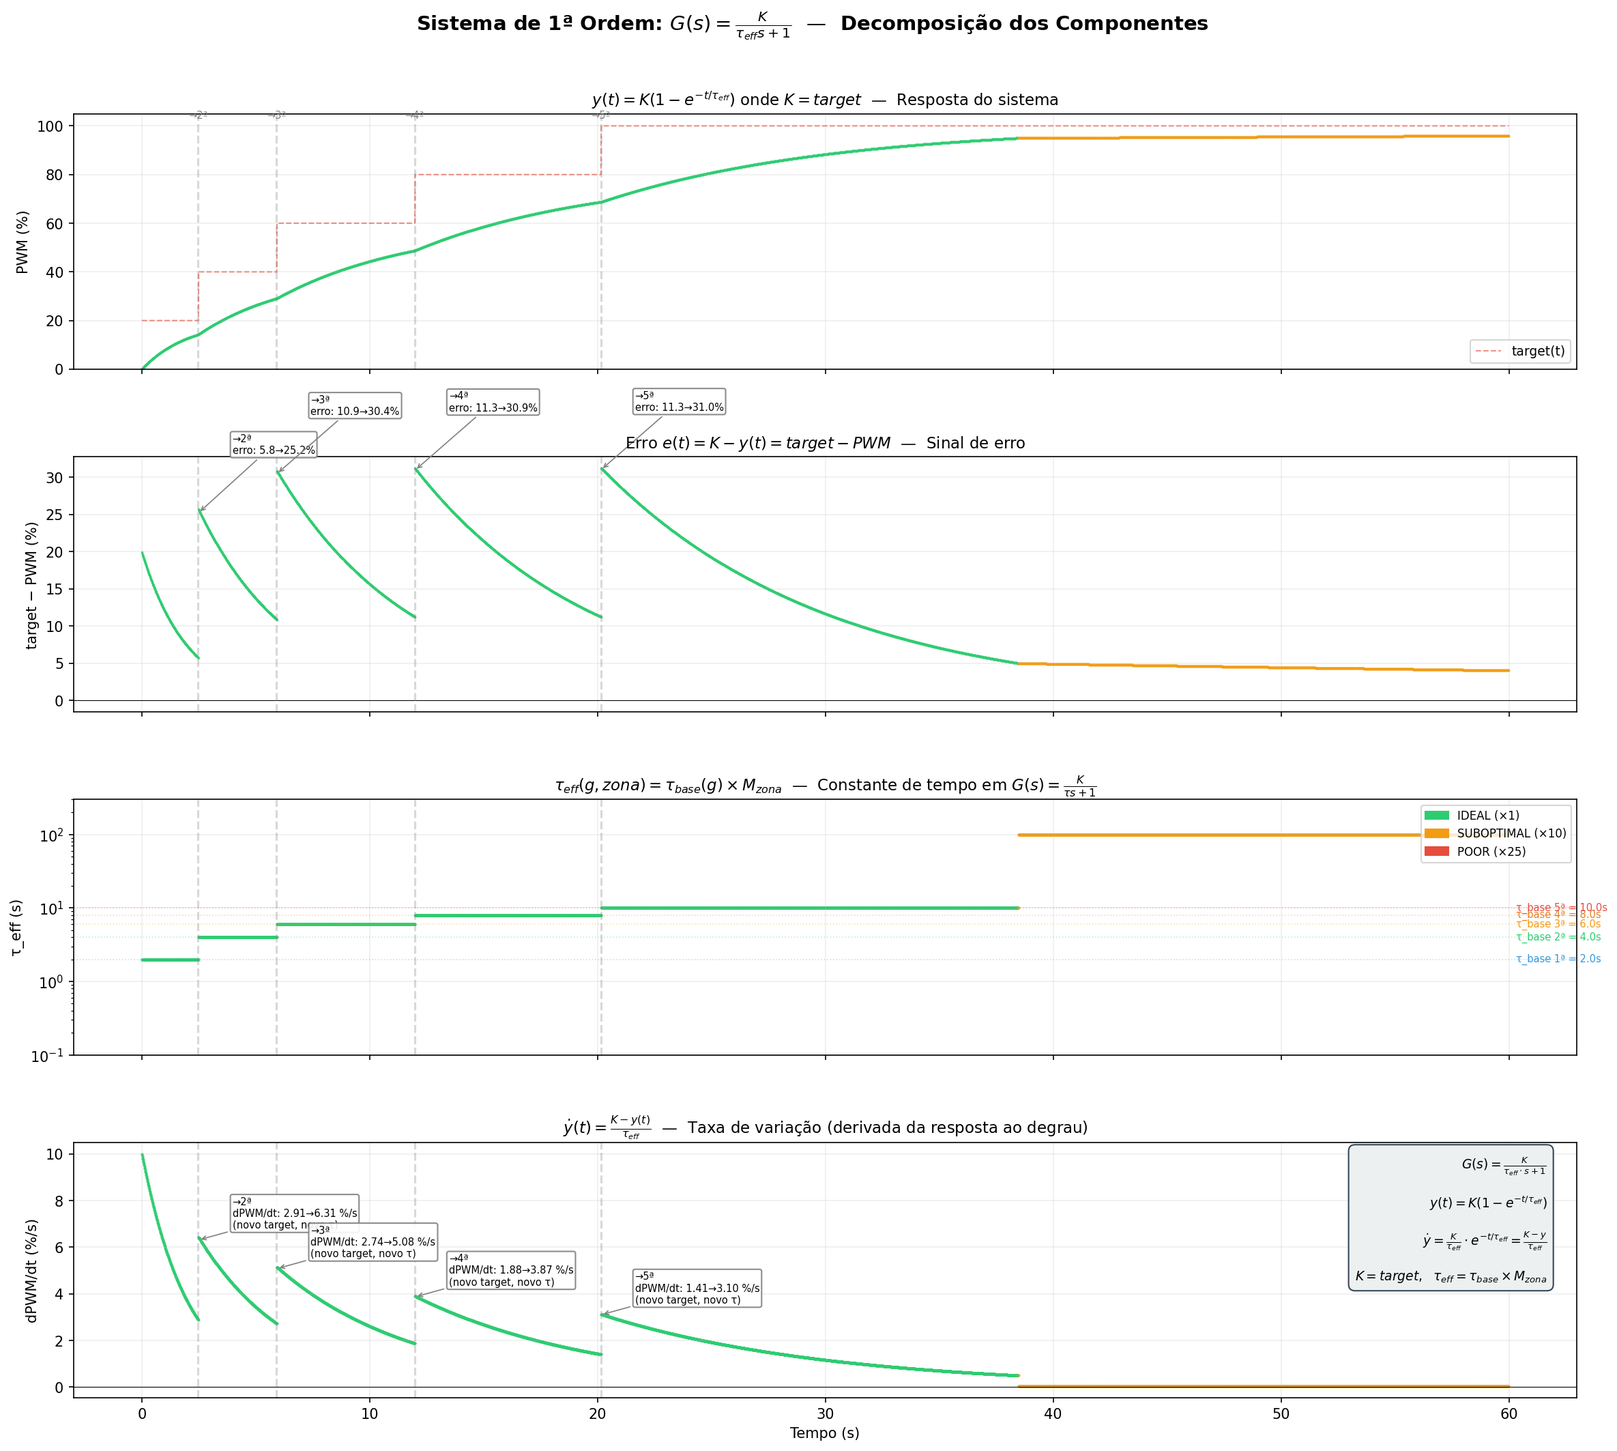
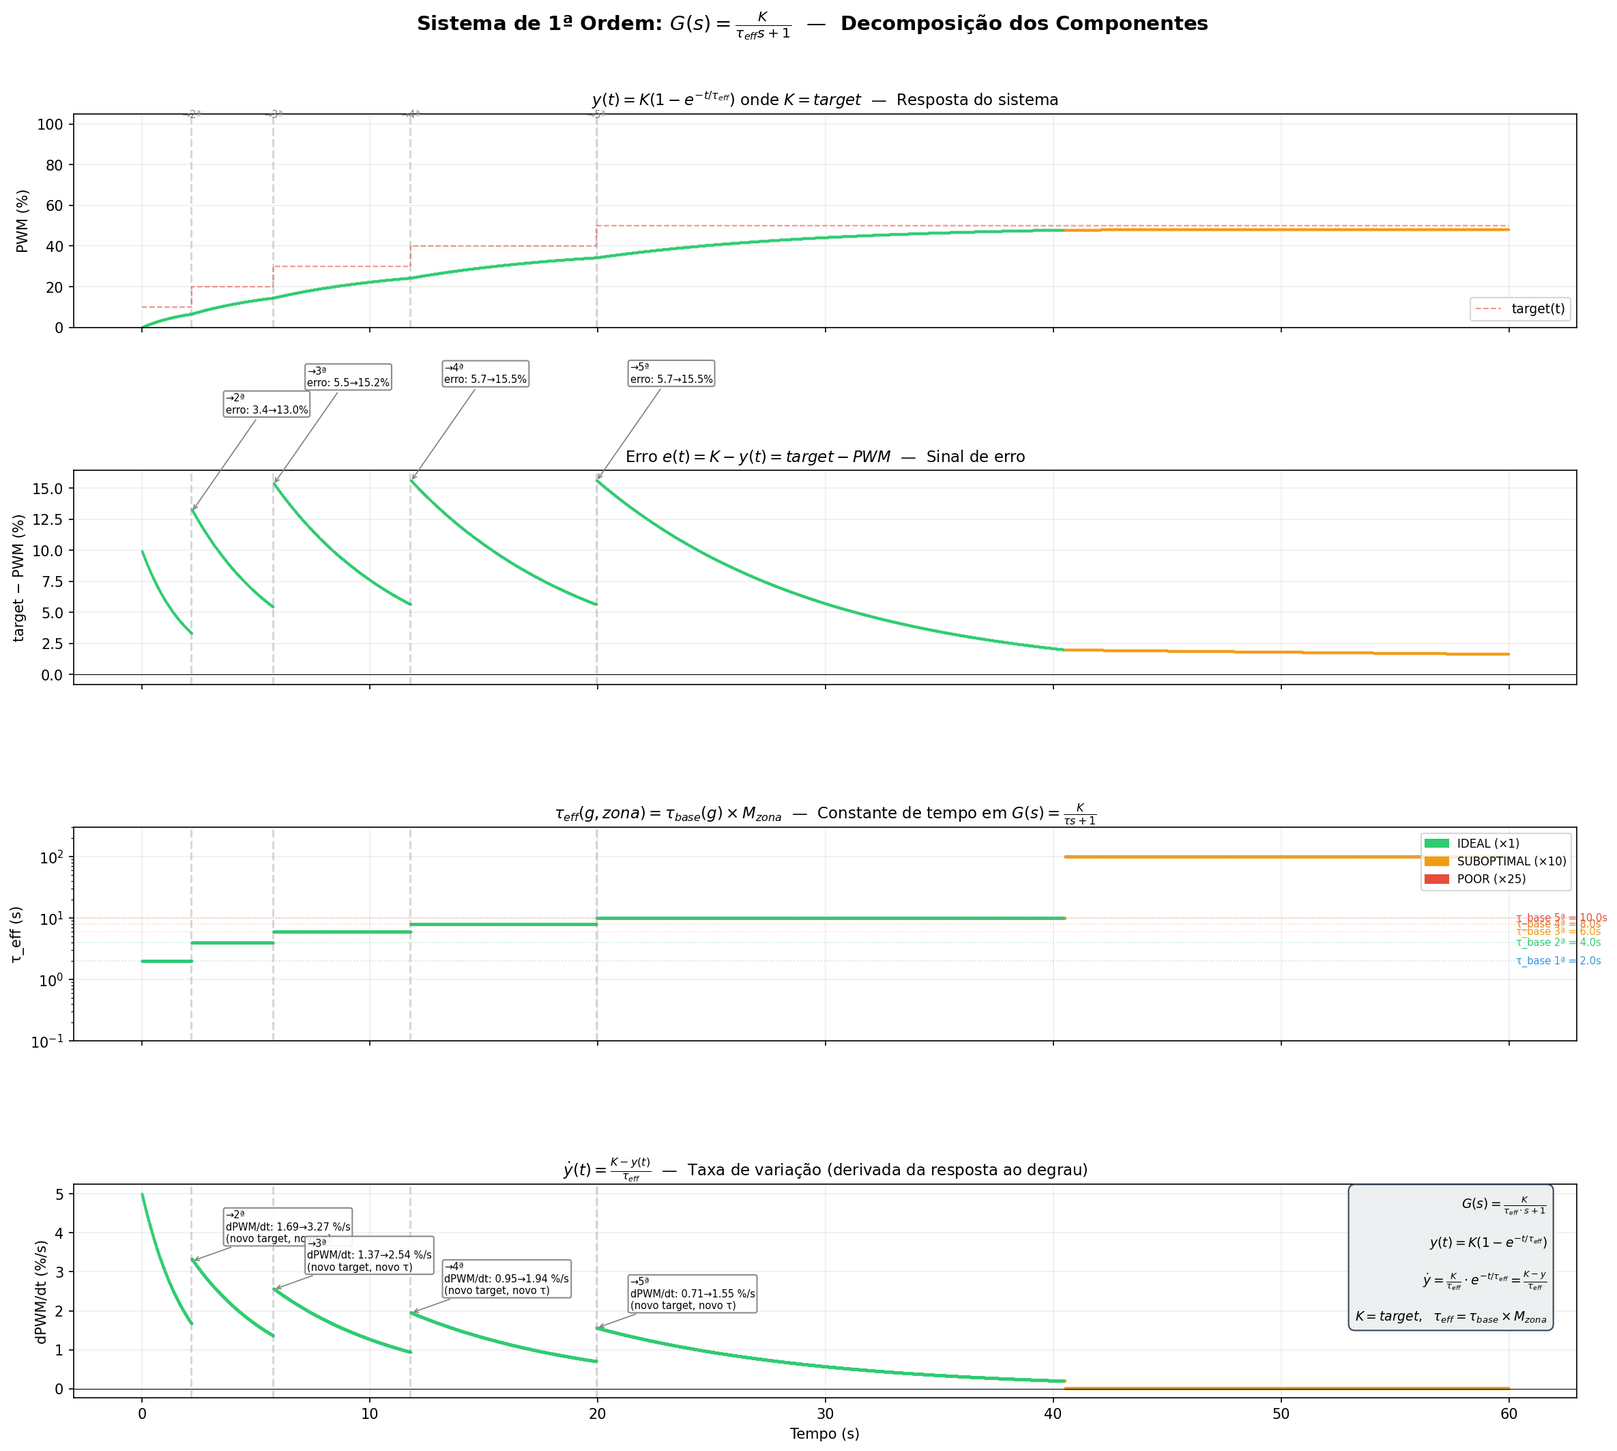
refactor: limitar pwm do motor a 50% (transmissão)
teto absoluto reduzido para proteger o diferencial do veículo;
marchas, zonas de eficiência, gráficos e apêndice da monografia
foram recalibrados para a nova faixa

diff --git a/monografia/3-pos-textuais/apendices/exemplo-transmissao.tex b/monografia/3-pos-textuais/apendices/exemplo-transmissao.tex
@@ -8,8 +8,8 @@ Para tornar concretos os cálculos descritos na \autoref{subsec:propulsao-direca
 Da \autoref{tab:gear-params}, os parâmetros da 1ª marcha são:
 
 \begin{itemize}
-	\item $K$ (limitador) = 20\% --- o PWM máximo que a 1ª marcha permite
-	\item ideal\_low = 0\%, ideal\_high = 15\% --- faixa onde o motor opera com eficiência
+	\item $K$ (limitador) = 10\% --- o PWM máximo que a 1ª marcha permite
+	\item ideal\_low = 0\%, ideal\_high = 7\% --- faixa onde o motor opera com eficiência
 	\item $\tau_{base}$ = 2,0~s --- constante de tempo na zona IDEAL
 \end{itemize}
 
@@ -18,26 +18,26 @@ Da \autoref{tab:gear-params}, os parâmetros da 1ª marcha são:
 O operador pressiona 60\% do acelerador. O software converte esse valor para o PWM alvo:
 
 \begin{equation*}
-	\text{target\_pwm} = \frac{\text{throttle}}{100} \times K = \frac{60}{100} \times 20 = 12{,}0\%
+	\text{target\_pwm} = \frac{\text{throttle}}{100} \times K = \frac{60}{100} \times 10 = 6{,}0\%
 \end{equation*}
 
-O valor 12\% cai dentro da zona IDEAL (0--15\%). Como a zona é classificada pelo PWM atual do motor (não pelo target), e o PWM vai de 0\% até 12\% neste exemplo, ele permanece na zona IDEAL durante todo o trajeto. A 1ª marcha é adequada para esse nível de acelerador.
+O valor 6\% cai dentro da zona IDEAL (0--7\%). Como a zona é classificada pelo PWM atual do motor (não pelo target), e o PWM vai de 0\% até 6\% neste exemplo, ele permanece na zona IDEAL durante todo o trajeto. A 1ª marcha é adequada para esse nível de acelerador.
 
 \section*{Classificação das zonas de eficiência}
 
 O software calcula a margem da zona SUBOPTIMAL como 25\% da largura da zona IDEAL, com mínimo de 2\%:
 
 \begin{equation*}
-	\text{margem} = \max(\text{ideal\_width} \times 0{,}25,\; 2{,}0) = \max((15 - 0) \times 0{,}25,\; 2{,}0) = \max(3{,}75,\; 2{,}0) = 3{,}75\%
+	\text{margem} = \max(\text{ideal\_width} \times 0{,}25,\; 2{,}0) = \max((7 - 0) \times 0{,}25,\; 2{,}0) = \max(1{,}75,\; 2{,}0) = 2{,}0\%
 \end{equation*}
 
 Os limites das zonas ficam:
 
 \begin{equation*}
-	\text{sub\_low} = \max(0 - 3{,}75,\; 0) = 0\% \qquad \text{sub\_high} = \min(15 + 3{,}75,\; 20) = 18{,}75\%
+	\text{sub\_low} = \max(0 - 2,\; 0) = 0\% \qquad \text{sub\_high} = \min(7 + 2,\; 10) = 9\%
 \end{equation*}
 
-Na 1ª marcha, a zona SUBOPTIMAL esquerda é inexistente porque ideal\_low já é 0\% (início da faixa operacional). Só existem SUBOPTIMAL à direita (15--18,75\%) e POOR (18,75--20\%) acima da zona IDEAL.
+Na 1ª marcha, a zona SUBOPTIMAL esquerda é inexistente porque ideal\_low já é 0\% (início da faixa operacional). Só existem SUBOPTIMAL à direita (7--9\%) e POOR (9--10\%) acima da zona IDEAL.
 
 O mapa completo da 1ª marcha é:
 
@@ -49,30 +49,30 @@ O mapa completo da 1ª marcha é:
 		\toprule
 		Faixa de PWM & Zona & $M_{zona}$ & $\tau_{eff} = \tau_{base} \times M_{zona}$ \\
 		\midrule \midrule
-		0\% a 15\% & IDEAL & 1,0 & $2{,}0 \times 1 = 2{,}0$~s \\
+		0\% a 7\% & IDEAL & 1,0 & $2{,}0 \times 1 = 2{,}0$~s \\
 		\midrule
-		15\% a 18,75\% & SUBOPTIMAL & 10,0 & $2{,}0 \times 10 = 20{,}0$~s \\
+		7\% a 9\% & SUBOPTIMAL & 10,0 & $2{,}0 \times 10 = 20{,}0$~s \\
 		\midrule
-		18,75\% a 20\% & POOR & 25,0 & $2{,}0 \times 25 = 50{,}0$~s \\
+		9\% a 10\% & POOR & 25,0 & $2{,}0 \times 25 = 50{,}0$~s \\
 		\bottomrule
 	\end{tabular}%
 }{%
 \Fonte{elaborado pelo autor.}%
-\Nota{Na 1ª marcha, a zona IDEAL começa em 0\%, então não há zonas SUBOPTIMAL nem POOR abaixo da zona IDEAL. A faixa operacional cobre continuamente 0--20\%.}%
+\Nota{Na 1ª marcha, a zona IDEAL começa em 0\%, então não há zonas SUBOPTIMAL nem POOR abaixo da zona IDEAL. A faixa operacional cobre continuamente 0--10\%.}%
 }
 \end{table}
 
 Na zona IDEAL, o motor responde com $\tau_{eff} = 2$~s. Fora dela, o multiplicador $M_{zona}$ torna a resposta 10 a 25 vezes mais lenta. O efeito prático é que o motor ``engasga'' quando a marcha não é a certa para a faixa de PWM, forçando o operador a trocar.
 
-\section*{Aceleração na zona IDEAL (0\% a 12\%)}
+\section*{Aceleração na zona IDEAL (0\% a 6\%)}
 
-Com PWM = 0\% e target = 12\%, a zona é IDEAL e $\tau_{eff} = 2{,}0$~s. O software aplica a equação diferencial de 1ª ordem via integração de Euler (conforme \autoref{eq:ode-motor}):
+Com PWM = 0\% e target = 6\%, a zona é IDEAL e $\tau_{eff} = 2{,}0$~s. O software aplica a equação diferencial de 1ª ordem via integração de Euler (conforme \autoref{eq:ode-motor}):
 
 \begin{equation*}
-	\Delta y = \frac{K - y}{\tau_{eff}} \times \Delta t = \frac{12{,}0 - \text{PWM}}{2{,}0} \times 0{,}01
+	\Delta y = \frac{K - y}{\tau_{eff}} \times \Delta t = \frac{6{,}0 - \text{PWM}}{2{,}0} \times 0{,}01
 \end{equation*}
 
-A cada iteração, o ``erro'' ($12{,}0 - \text{PWM}$) diminui, e o passo fica menor. A \autoref{tab:iteracoes-euler} mostra algumas iterações.
+A cada iteração, o ``erro'' ($6{,}0 - \text{PWM}$) diminui, e o passo fica menor. A \autoref{tab:iteracoes-euler} mostra algumas iterações.
 
 \begin{table}[!h]
 \captionsetup{width=16cm}
@@ -80,19 +80,19 @@ A cada iteração, o ``erro'' ($12{,}0 - \text{PWM}$) diminui, e o passo fica me
 \IBGEtab{}{%
 	\begin{tabular}{ccccc}
 		\toprule
-		Tempo (s) & PWM (\%) & Erro (12,0 $-$ PWM) & $\tau_{eff}$ (s) & $\Delta y$ (\%) \\
+		Tempo (s) & PWM (\%) & Erro (6,0 $-$ PWM) & $\tau_{eff}$ (s) & $\Delta y$ (\%) \\
 		\midrule \midrule
-		0,00 & 0,000 & 12,000 & 2,0 & 0,0600 \\
+		0,00 & 0,000 & 6,000 & 2,0 & 0,0300 \\
 		\midrule
-		0,50 & 2,717 & 9,283 & 2,0 & 0,0464 \\
+		0,50 & 1,326 & 4,674 & 2,0 & 0,0234 \\
 		\midrule
-		1,00 & 4,721 & 7,279 & 2,0 & 0,0364 \\
+		1,00 & 2,361 & 3,639 & 2,0 & 0,0182 \\
 		\midrule
-		2,00 & 7,386 & 4,614 & 2,0 & 0,0231 \\
+		2,00 & 3,793 & 2,207 & 2,0 & 0,0110 \\
 		\midrule
-		4,00 & 10,374 & 1,626 & 2,0 & 0,0081 \\
+		4,00 & 5,188 & 0,812 & 2,0 & 0,0041 \\
 		\midrule
-		6,00 & 11,403 & 0,597 & 2,0 & 0,0030 \\
+		6,00 & 5,701 & 0,299 & 2,0 & 0,0015 \\
 		\bottomrule
 	\end{tabular}%
 }{%
@@ -103,7 +103,7 @@ A cada iteração, o ``erro'' ($12{,}0 - \text{PWM}$) diminui, e o passo fica me
 A solução analítica da \autoref{eq:resposta-degrau}, contada a partir de $t_0 = 0$~s quando PWM~=~0\%, é:
 
 \begin{equation*}
-	y(t) = 12{,}0 \times \left(1 - e^{-t/2{,}0}\right)
+	y(t) = 6{,}0 \times \left(1 - e^{-t/2{,}0}\right)
 \end{equation*}
 
 Os marcos temporais confirmam as propriedades do sistema de 1ª ordem \cite{franklin2013sistemas}:
@@ -114,15 +114,15 @@ Os marcos temporais confirmam as propriedades do sistema de 1ª ordem \cite{fran
 \IBGEtab{}{%
 	\begin{tabular}{cccc}
 		\toprule
-		Tempo & PWM (\%) & \% do caminho (0\% $\rightarrow$ 12\%) & Propriedade \\
+		Tempo & PWM (\%) & \% do caminho (0\% $\rightarrow$ 6\%) & Propriedade \\
 		\midrule \midrule
-		$1 \times \tau = 2{,}0$~s & 7,585 & 63,2\% & Definição de $\tau$ \\
+		$1 \times \tau = 2{,}0$~s & 3,793 & 63,2\% & Definição de $\tau$ \\
 		\midrule
-		$2 \times \tau = 4{,}0$~s & 10,376 & 86,5\% & --- \\
+		$2 \times \tau = 4{,}0$~s & 5,188 & 86,5\% & --- \\
 		\midrule
-		$3 \times \tau = 6{,}0$~s & 11,403 & 95,0\% & Critério de convergência \\
+		$3 \times \tau = 6{,}0$~s & 5,701 & 95,0\% & Critério de convergência \\
 		\midrule
-		$5 \times \tau = 10{,}0$~s & 11,919 & 99,3\% & Praticamente no valor final \\
+		$5 \times \tau = 10{,}0$~s & 5,960 & 99,3\% & Praticamente no valor final \\
 		\bottomrule
 	\end{tabular}%
 }{%
@@ -134,23 +134,23 @@ Tempo total para atingir 95\% do target: $3\tau$ = \textbf{6,0~s}.
 
 \section*{O que aconteceria na zona POOR?}
 
-Se o operador estivesse na 1ª marcha com PWM em 19\% (zona POOR, entre 18,75\% e 20\%), tentando forçar o motor além da zona IDEAL sem trocar para a 2ª marcha, o $\tau_{eff}$ seria:
+Se o operador estivesse na 1ª marcha com PWM em 9,5\% (zona POOR, entre 9\% e 10\%), tentando forçar o motor além da zona IDEAL sem trocar para a 2ª marcha, o $\tau_{eff}$ seria:
 
 \begin{equation*}
 	\tau_{eff} = 2{,}0 \times 25{,}0 = 50{,}0~\text{s}
 \end{equation*}
 
-Com target em 20\% (acelerador a 100\%) e PWM atual em 19\%, o erro é apenas 1\%. Mesmo assim, o passo de Euler seria:
+Com target em 10\% (acelerador a 100\%) e PWM atual em 9,5\%, o erro é apenas 0,5\%. Mesmo assim, o passo de Euler seria:
 
 \begin{equation*}
-	\Delta y = \frac{1{,}0}{50{,}0} \times 0{,}01 = 0{,}0002\%~\text{por iteração}
+	\Delta y = \frac{0{,}5}{50{,}0} \times 0{,}01 = 0{,}0001\%~\text{por iteração}
 \end{equation*}
 
-Para comparação, na zona IDEAL com o mesmo erro de 1\% o passo seria $1{,}0 / 2{,}0 \times 0{,}01 = 0{,}005\%$ por iteração, 25 vezes mais rápido. O motor quase não responde na zona POOR, sinalizando que o operador deveria ter trocado para a 2ª marcha (cuja zona IDEAL começa em 12\%, sobrepondo a 1ª marcha em 12--15\%).
+Para comparação, na zona IDEAL com o mesmo erro de 0,5\% o passo seria $0{,}5 / 2{,}0 \times 0{,}01 = 0{,}0025\%$ por iteração, 25 vezes mais rápido. O motor quase não responde na zona POOR, sinalizando que o operador deveria ter trocado para a 2ª marcha (cuja zona IDEAL começa em 6\%, sobrepondo a 1ª marcha em 6--7\%).
 
 \section*{Desaceleração: soltar o acelerador}
 
-Com PWM = 10\% e target caindo para 0\%, o software usa $\tau$ dividido por 3 (conforme descrito na \autoref{subsec:propulsao-direcao-veiculo}):
+Com PWM = 5\% e target caindo para 0\%, o software usa $\tau$ dividido por 3 (conforme descrito na \autoref{subsec:propulsao-direcao-veiculo}):
 
 \begin{equation*}
 	\tau_{decel} = \frac{\tau_{eff}}{3} = \frac{2{,}0}{3} = 0{,}667~\text{s}
@@ -159,7 +159,7 @@ Com PWM = 10\% e target caindo para 0\%, o software usa $\tau$ dividido por 3 (c
 O passo de Euler:
 
 \begin{equation*}
-	\Delta y = \frac{10{,}0}{0{,}667} \times 0{,}01 = 0{,}15\%~\text{por iteração}
+	\Delta y = \frac{5{,}0}{0{,}667} \times 0{,}01 = 0{,}075\%~\text{por iteração}
 \end{equation*}
 
 A desaceleração é 3 vezes mais rápida que a aceleração. O motor desacelera sensivelmente em cerca de 2~s.
@@ -177,7 +177,7 @@ Se além de soltar o acelerador o operador pisar no freio a 100\%:
 \end{equation*}
 
 \begin{equation*}
-	\Delta y = \frac{10{,}0}{0{,}0667} \times 0{,}01 = 1{,}5\%~\text{por iteração}
+	\Delta y = \frac{5{,}0}{0{,}0667} \times 0{,}01 = 0{,}75\%~\text{por iteração}
 \end{equation*}
 
 A desaceleração com freio máximo é \textbf{30 vezes mais rápida} que a aceleração normal. O motor para em aproximadamente 0,07~s.

diff --git a/monografia/2-textuais/3-metodologia.tex b/monografia/2-textuais/3-metodologia.tex
@@ -378,7 +378,7 @@ A constante de tempo efetiva combina dois fatores --- a marcha e a zona de efici
 
 \noindent onde $\tau_{base}(g)$ cresce com a marcha (2~s na 1ª até 10~s na 5ª, refletindo maior inércia em marchas altas) e $M_{zona}$ é o multiplicador da zona de eficiência: $M_{IDEAL} = 1{,}0$, $M_{SUB} = 10{,}0$ e $M_{POOR} = 25{,}0$. Esses valores foram ajustados durante a prototipagem evolutiva: cada conjunto era implementado, testado em condução real e corrigido até que a penalização por operar na marcha errada fosse perceptível ao operador sem tornar o veículo inoperável nas zonas desfavoráveis. Na zona IDEAL, o sistema responde com $\tau_{base}$; na zona SUBOPTIMAL, a resposta é 10 vezes mais lenta; na zona POOR, 25 vezes mais lenta. A zona é classificada pelo PWM atual do motor (não pelo target), de modo que a penalização ocorre em tempo real conforme o motor sai da faixa ideal. Isso força o operador a utilizar a marcha adequada para a faixa em que o motor está operando. O efeito reproduz o comportamento de uma transmissão real, onde manter uma marcha alta em baixa rotação resulta em resposta lenta.
 
-A \autoref{tab:gear-params} resume os parâmetros por marcha, calibrados em testes de bancada e em campo. Os limitadores definem o ganho $K$ (PWM máximo quando o acelerador está em 100\%) conforme a faixa de rotação útil do motor DC 775 em cada relação de transmissão. As faixas ideal\_low e ideal\_high delimitam a zona IDEAL e foram ajustadas para que a aceleração fosse progressiva dentro de cada marcha. As zonas ideais de marchas adjacentes se sobrepõem (por exemplo, a 2ª cobre 12--30\% e a 1ª cobre 0--15\%), garantindo que no ponto de troca o PWM já esteja na zona IDEAL da próxima marcha.
+A \autoref{tab:gear-params} resume os parâmetros por marcha, calibrados em testes de bancada e em campo. Os limitadores definem o ganho $K$ (PWM máximo quando o acelerador está em 100\%) conforme a faixa de rotação útil do motor DC 775 em cada relação de transmissão. As faixas ideal\_low e ideal\_high delimitam a zona IDEAL e foram ajustadas para que a aceleração fosse progressiva dentro de cada marcha. As zonas ideais de marchas adjacentes se sobrepõem (por exemplo, a 2ª cobre 6--15\% e a 1ª cobre 0--7\%), garantindo que no ponto de troca o PWM já esteja na zona IDEAL da próxima marcha. O teto absoluto do sistema foi limitado a 50\% de duty cycle para proteger o diferencial mecânico do veículo, que apresentou falhas em testes preliminares com o motor operando em rotações mais altas.
 
 \begin{table}[!ht]
 	\centering
@@ -388,11 +388,11 @@ A \autoref{tab:gear-params} resume os parâmetros por marcha, calibrados em test
 			\toprule
 			Marcha & $K$ (limitador) & Zona IDEAL & $\tau_{base}$ & $\tau_{IDEAL}$ & $\tau_{SUB}$ & $\tau_{POOR}$ \\
 			\midrule
-			1ª & 20\% & 0--15\% & 2,0~s & 2~s & 20~s & 50~s \\
-			2ª & 40\% & 12--30\% & 4,0~s & 4~s & 40~s & 100~s \\
-			3ª & 60\% & 25--50\% & 6,0~s & 6~s & 60~s & 150~s \\
-			4ª & 80\% & 45--70\% & 8,0~s & 8~s & 80~s & 200~s \\
-			5ª & 100\% & 65--95\% & 10,0~s & 10~s & 100~s & 250~s \\
+			1ª & 10\% & 0--7\% & 2,0~s & 2~s & 20~s & 50~s \\
+			2ª & 20\% & 6--15\% & 4,0~s & 4~s & 40~s & 100~s \\
+			3ª & 30\% & 12--25\% & 6,0~s & 6~s & 60~s & 150~s \\
+			4ª & 40\% & 22--35\% & 8,0~s & 8~s & 80~s & 200~s \\
+			5ª & 50\% & 32--48\% & 10,0~s & 10~s & 100~s & 250~s \\
 			\bottomrule
 		\end{tabular}
 	}{
@@ -400,7 +400,7 @@ A \autoref{tab:gear-params} resume os parâmetros por marcha, calibrados em test
 	}
 \end{table}
 
-A \autoref{fig:zonas-eficiencia-marchas} ilustra as zonas de eficiência por marcha. Na zona IDEAL (verde), $\tau_{eff} = \tau_{base}$; na SUBOPTIMAL (laranja), $\tau_{eff} = 10 \times \tau_{base}$; na POOR (vermelho), $\tau_{eff} = 25 \times \tau_{base}$. A margem da zona SUBOPTIMAL corresponde a 25\% da largura da zona IDEAL em cada borda, com mínimo de 2\%. A 1ª marcha inicia em 0\% de PWM, de modo que a modelagem cobre continuamente toda a faixa operacional sem descontinuidades.
+A \autoref{fig:zonas-eficiencia-marchas} ilustra as zonas de eficiência por marcha. Na zona IDEAL (verde), $\tau_{eff} = \tau_{base}$; na SUBOPTIMAL (laranja), $\tau_{eff} = 10 \times \tau_{base}$; na POOR (vermelho), $\tau_{eff} = 25 \times \tau_{base}$. A margem da zona SUBOPTIMAL corresponde a 25\% da largura da zona IDEAL em cada borda, com mínimo de 2\%. A 1ª marcha inicia em 0\% de PWM, de modo que a modelagem cobre continuamente a faixa operacional limitada (0--50\%) sem descontinuidades.
 
 \begin{figure}[!ht]
 	\captionsetup{width=16cm}

diff --git a/raspberry/managers/motor.py b/raspberry/managers/motor.py
@@ -262,14 +262,18 @@ class MotorManager:
     # Zonas ideais se sobrepõem: ideal_low(g+1) < ideal_high(g)
     # No ponto de troca, o PWM já está na zona ideal da próxima marcha.
     # 1ª marcha começa em 0% (sem zona morta).
+    #
+    # Teto absoluto do motor limitado a 50% de duty cycle para proteger o
+    # diferencial do veículo. Mesmo com throttle 100% na 5ª marcha, o PWM
+    # real enviado ao BTS7960 nunca passa de 50%.
 
     GEAR_PARAMS = {
         # gear: (limiter, ideal_low, ideal_high, τ_base)
-        1: (20,   0,  15,  2.0),  # 1ª: ideal 0-15%
-        2: (40,  12,  30,  4.0),  # 2ª: ideal 12-30% (sobrepõe 1ª em 12-15%)
-        3: (60,  25,  50,  6.0),  # 3ª: ideal 25-50% (sobrepõe 2ª em 25-30%)
-        4: (80,  45,  70,  8.0),  # 4ª: ideal 45-70% (sobrepõe 3ª em 45-50%)
-        5: (100, 65,  95, 10.0),  # 5ª: ideal 65-95% (sobrepõe 4ª em 65-70%)
+        1: (10,   0,   7,  2.0),  # 1ª: ideal 0-7%
+        2: (20,   6,  15,  4.0),  # 2ª: ideal 6-15% (sobrepõe 1ª em 6-7%)
+        3: (30,  12,  25,  6.0),  # 3ª: ideal 12-25% (sobrepõe 2ª em 12-15%)
+        4: (40,  22,  35,  8.0),  # 4ª: ideal 22-35% (sobrepõe 3ª em 22-25%)
+        5: (50,  32,  48, 10.0),  # 5ª: ideal 32-48% (sobrepõe 4ª em 32-35%)
     }
 
     # Multiplicadores de τ por zona (quanto maior, mais lento)
@@ -284,12 +288,12 @@ class MotorManager:
         """
         Classifica a zona de eficiência com base no PWM atual e marcha.
 
-        Zonas por marcha (exemplo 3ª, limiter=60%, ideal 25-50%):
-          POOR:       0% — 19%  (muito abaixo do ideal)
-          SUBOPTIMAL: 19% — 25% (abaixo do ideal, transição)
-          IDEAL:      25% — 50% (faixa eficiente)
-          SUBOPTIMAL: 50% — 56% (acima do ideal, deveria subir marcha)
-          POOR:       > 56%     (acima do limiter)
+        Zonas por marcha (exemplo 3ª, limiter=30%, ideal 12-25%):
+          POOR:       0% — 8.75%  (muito abaixo do ideal)
+          SUBOPTIMAL: 8.75% — 12% (abaixo do ideal, transição)
+          IDEAL:      12% — 25%   (faixa eficiente)
+          SUBOPTIMAL: 25% — 28.25% (acima do ideal, deveria subir marcha)
+          POOR:       > 28.25%    (acima do limiter)
         """
         _, ideal_low, ideal_high, _ = self.GEAR_PARAMS[self.current_gear]
         limiter = self.GEAR_PARAMS[self.current_gear][0]

diff --git a/scripts/generate_motor_charts.py b/scripts/generate_motor_charts.py
@@ -20,14 +20,20 @@ import os
 
 GEAR_PARAMS = {
     # gear: (limiter, ideal_low, ideal_high, τ_base)
-    1: (20,   0,  15,  2.0),
-    2: (40,  12,  30,  4.0),
-    3: (60,  25,  50,  6.0),
-    4: (80,  45,  70,  8.0),
-    5: (100, 65,  95, 10.0),
+    # Teto absoluto de 50% de PWM para proteger o diferencial.
+    1: (10,   0,   7,  2.0),
+    2: (20,   6,  15,  4.0),
+    3: (30,  12,  25,  6.0),
+    4: (40,  22,  35,  8.0),
+    5: (50,  32,  48, 10.0),
 }
 
 TAU_MULTIPLIER = {"IDEAL": 1.0, "SUBOPTIMAL": 10.0, "POOR": 25.0}
+
+# Limite máximo do eixo X para gráficos de PWM. O motor é limitado a 50% de
+# duty cycle (limiter da 5ª marcha), então não faz sentido estender o eixo
+# até 100%. Mantém 55% como margem visual.
+MAX_PWM_DISPLAY = 55
 
 ZONE_COLORS = {"IDEAL": "#2ecc71", "SUBOPTIMAL": "#f39c12", "POOR": "#e74c3c"}
 GEAR_COLORS = ["#3498db", "#2ecc71", "#f39c12", "#e67e22", "#e74c3c"]
@@ -110,7 +116,7 @@ def plot_zones():
     ax.set_yticklabels(["1ª", "2ª", "3ª", "4ª", "5ª"])
     ax.set_xlabel("PWM do Motor (%)")
     ax.set_title("Zonas de Eficiência por Marcha — Sistema de 1ª Ordem")
-    ax.set_xlim(0, 105)
+    ax.set_xlim(0, MAX_PWM_DISPLAY)
 
     legend_patches = [
         mpatches.Patch(color=ZONE_COLORS["POOR"], label="POOR (τ × 25)"),
@@ -143,6 +149,7 @@ def plot_tau():
     ax.legend(fontsize=8)
     ax.set_yscale('log')
     ax.set_ylim(1, 300)
+    ax.set_xlim(0, MAX_PWM_DISPLAY)
     ax.grid(True, alpha=0.3)
 
     fig.tight_layout()
@@ -306,7 +313,7 @@ def plot_tachometer():
     ax.set_ylabel("Conta-giros (%)")
     ax.set_title("Mapeamento Conta-giros por Marcha (0% = ideal_low, 100% = ideal_high)")
     ax.legend(fontsize=8, loc='upper left')
-    ax.set_xlim(0, 105)
+    ax.set_xlim(0, MAX_PWM_DISPLAY)
     ax.set_ylim(-5, 110)
     ax.grid(True, alpha=0.3)
 
